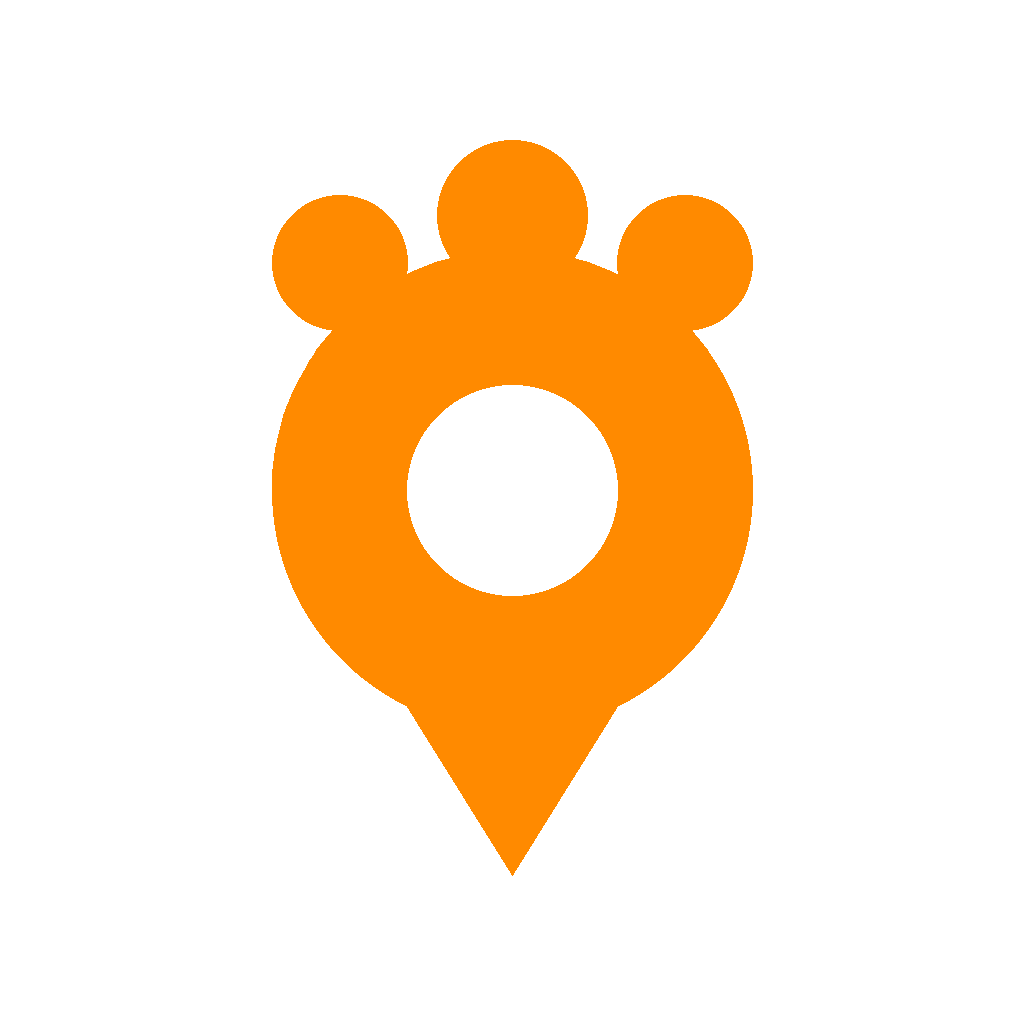
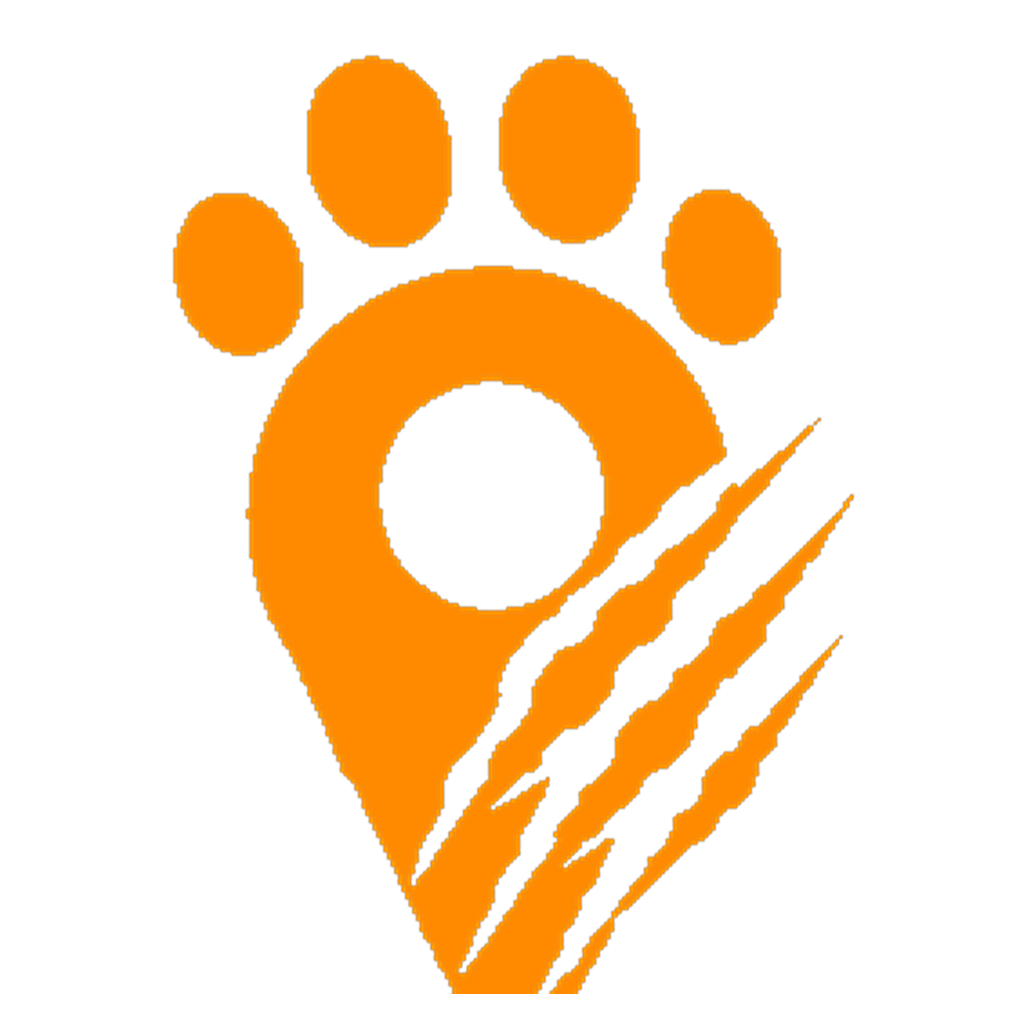
feat: 아이콘 발톱자국 복원+크기 최대화, 지도 마커 발톱제거+사진 네모, 스플래시 바운스 제거
- 앱 아이콘: 컨셉4(발바닥+위치핀+발톱자국) 흰배경+주황, 3% 패딩으로 최대 크기
- 지도 저장핀 마커: 발톱자국 제거, 사진 있으면 64px 정사각형 썸네일
- 스플래시: 위아래 바운스 애니메이션 제거

Changed region(s): [[0.1562, 0.0312, 0.8438, 0.9688], [0.5, 0.375, 0.5625, 0.4062]]

diff --git a/lib/features/map/screens/map_screen.dart b/lib/features/map/screens/map_screen.dart
@@ -171,11 +171,10 @@ class _MapScreenState extends State<MapScreen> {
         try {
           icons[pin.id] = await MarkerBuilder.buildPhotoMarker(path);
         } catch (_) {
-          icons[pin.id] = await MarkerBuilder.buildFootprintMarker();
+          // 사진 로드 실패 시 기본 마커 사용 (발톱 없음)
         }
-      } else {
-        icons[pin.id] = await MarkerBuilder.buildFootprintMarker();
       }
+      // 사진 없는 핀은 _markers getter에서 기본 마커로 처리
     }
     if (!mounted) return;
     setState(() {
